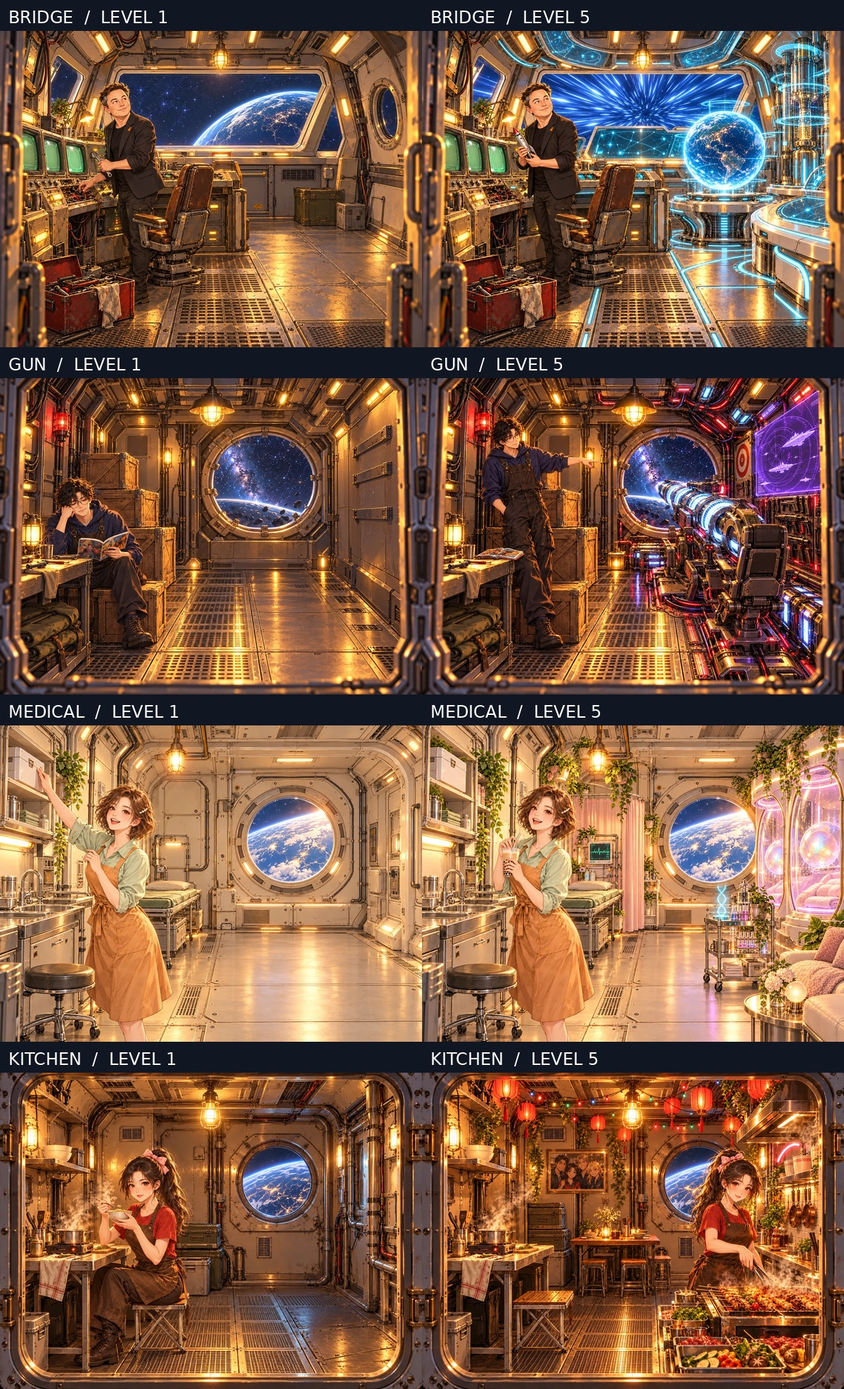
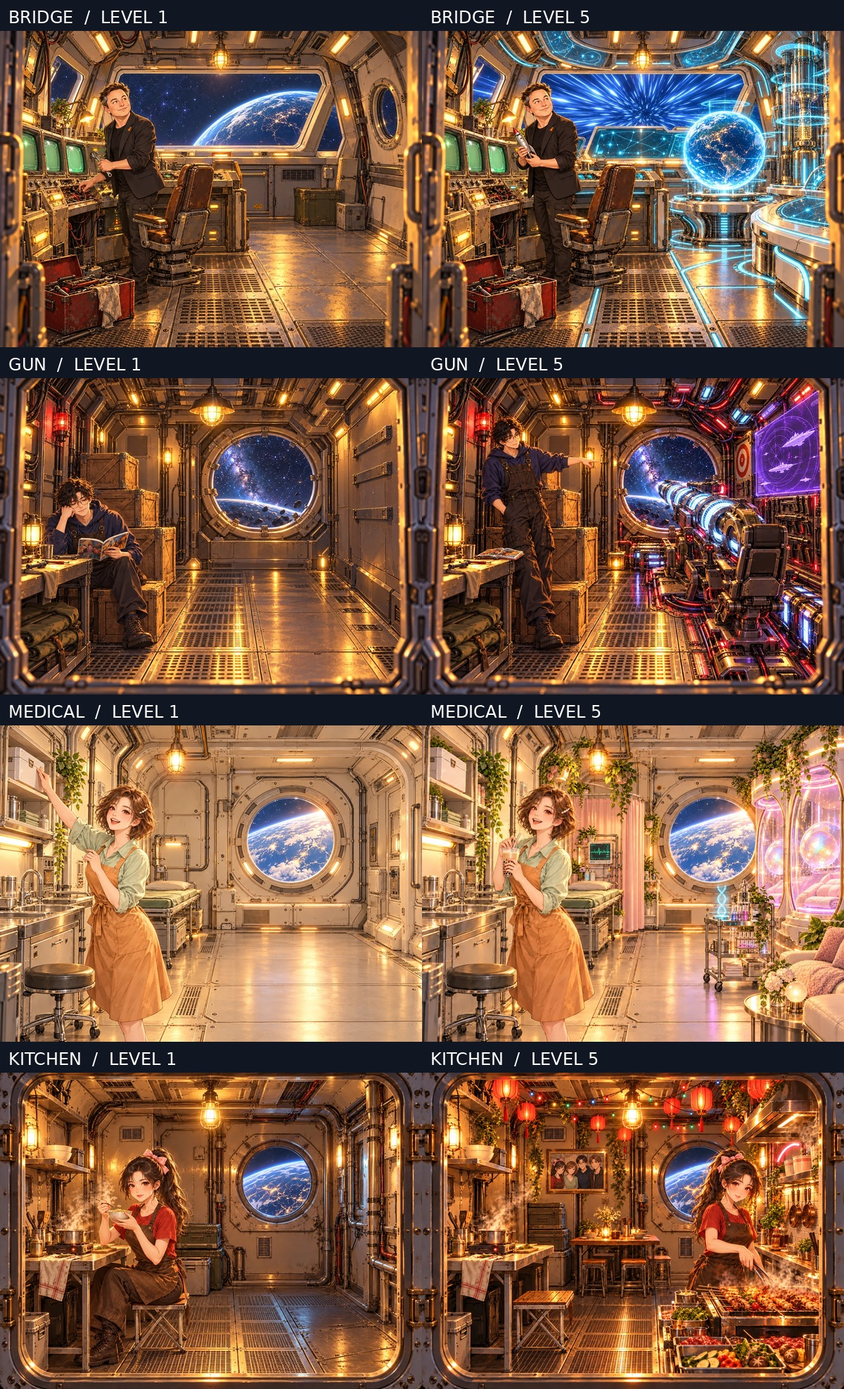
art(xingtu): complete twenty cabin upgrade illustrations and review sheets

diff --git a/art/xingtu-cabins/DELIVERY.md b/art/xingtu-cabins/DELIVERY.md
@@ -1,19 +1,36 @@
-# 星途四舱升级插画候选
+# 星途四舱五级美术候选
 
 分支：`xiongda/xt05-cabin-art`。基线 main：`8735b1ee15a80742ec71324d08de0d503ec28a07`。
+首批四舱 1/5 级提交：`f6e93380274ac3d208b08bfd0c6f9066821a554b`。
 仅交付美术，未接入游戏、未合并 main、未发布。由熊二负责运行时接入。
 
-## 首批
+## 规格与取用
 
-四舱各 1、5 级，共 8 张独立 WebP。统一 1200×900、4:3、RGB、不透明。文件名 `{bridge,gun,medical,kitchen}-{1,5}.webp`。
-`comparison-1-5.jpg` 每行同舱，左一级、右五级；预览上的英文等级标注不在独立插画内。
+20 张独立 WebP，统一 **1200×900、4:3、RGB、不透明**。文件名 `{bridge,gun,medical,kitchen}-{1,2,3,4,5}.webp`。
+`manifest.json` 列出每张图片路径、尺寸、格式、字节数及 SHA-256；`generation-sources.json` 记录实际生成原图来源，原始 PNG 保留在工作环境，非运行时依赖。
 
-依据 `wangdama/xingtu-demo` 的 `design/xingtu/demo.html`：`.real-art` 为 4:3，`REAL_STYLE` 指定 1200×900；船体内 280×104 SVG 是另一种布局。接入请完整展示 4:3，避免为横条裁掉人物和设备。
-风格与人物参考 `art/ceo_{rocket,otaku,pearl,c77}.webp` 和已合入的 `af65e1598090ba78020ce7e3cdcda308d487251d` 剧情卡（尤其 moon_1、station_3）。使用正式 image_gen 工具实际生成，先生成一级，再以同舱一级原图编辑五级，保留机位与核心旧设备。原始 PNG 1448×1086 经 Lanczos 等比缩至 1200×900，WebP quality 94。
+- `comparison-1-5.jpg`：四行，每行同舱，左一级、右五级。
+- `progression-1-5.jpg`：四行五列，从左至右 1–5 级，供相邻升级比较。
+- 两张预览上的英文等级标注不在独立插画内。
 
-- 舰桥：保留旧三屏、驾驶椅和工具箱；新增导航屏、全息地球、计算柱、数据环、曲率控制台。
-- 炮舱：保留木箱、工作台、红灯；新增靶标、武器架、炮座、战术屏、充能组件。
-- 医务室：保留药箱、水槽、诊疗床、凳；新增帘、监护仪、绿植、实验车、珍珠疗愈舱。
-- 厨房：保留电炉、锅、桌、折叠凳；新增灯串、餐桌、锅具墙、烤架和灯笼。
+依据 `wangdama/xingtu-demo`（`a1bc784b76a9abf91cd40f5c452276a4ffde9fe4`）的 `design/xingtu/demo.html`：`.real-art` 为 4:3，`REAL_STYLE` 指定 1200×900；船体内 280×104 SVG 是另一布局。接入请完整展示 4:3，避免为横条裁掉人物和设备。
 
-已逐张目视检查首批角色、机位、实物增量，无可读文字/水印。屏幕仅有装饰线形与图形。已完整解码 8 张并确认 WebP 与尺寸一致；SHA-256、字节数见 manifest.json。尚未完成中间 2–4 级；未做运行时接入或端到端游戏验收。仓库及上级目录未找到 AGENTS.md，也未找到本地专用图像生成 SKILL.md。
+## 美术依据与升级
+
+人物参考 `art/ceo_{rocket,otaku,pearl,c77}.webp`，风格参考已合入的 `af65e1598090ba78020ce7e3cdcda308d487251d` 剧情卡，尤其 moon_1、station_3。保持细致写实叙事插画、暖金灯光与深蓝太空色调，非 Q 版，不依据真人重新设计。
+使用正式 `image_gen.imagegen` 工具实际生成。先生成每舱一级，以一级编辑五级，再以前一级和五级端点作图像参考补齐中间级。每舱维持相同机位、舷窗、舱体骨架与核心旧设备，人物动作随剧情变化；新增设备允许遮挡背景局部，非像素级完全不变。原始 PNG 经 Lanczos 等比缩放至 1200×900，WebP quality 94。预览只做拼接和外置标题，未用程序占位插画。
+
+| 舱室 | 1 级保留基础 | 2 级新增 | 3 级新增 | 4 级新增 | 5 级新增 |
+|---|---|---|---|---|---|
+| bridge / 舰桥 / 火箭老板 | 三块旧绿屏、驾驶椅、工具箱 | 导航星图屏 | 全息地球与底座 | 量子计算柱和数据环 | 曲率控制台、顶部能量导管、曲率窗景 |
+| gun / 炮舱 / 阿宅店长 | 木箱、工作台、红灯、篷布 | 训练靶和武器架 | 炮管、炮座、炮手椅 | 紫色战术屏及控制器 | 充能线圈、供能管线和电池 |
+| medical / 医务室 / 珍珠姐 | 药箱、水槽、诊疗床、凳 | 帘和监护仪 | 绿植、软垫和疗养椅 | 实验车、试管、显微镜、DNA 全息 | 透明珍珠疗愈舱 |
+| kitchen / 厨房 / 77 | 电炉、锅、桌、碗架、折叠凳 | 灯串和泡面架 | 餐桌椅及四人合影 | 锅具墙、瓷砖及炒菜台 | 烧烤架、灯笼、排烟罩及食材 |
+
+## 核验与边界
+
+20 张均完整解码，文件名集合、WebP 格式、1200×900 尺寸、唯一哈希已核对。逐张查看原图及总览，四舱相邻等级均有明确实物增量。修复炮舱四级多余腿部、补回训练靶、厨房三级折叠凳，并统一厨房合影和医务室工具连续性。独立插画无可读标题、等级文字或水印，设备屏幕仅装饰图形/短线。
+
+改动范围仅 `art/xingtu-cabins/` 的插画和交付材料；游戏代码、经济数值、存档、版本、受保护测试指纹均未改。未做运行时接入或正式游戏端到端验收；裁切、加载、缓存、实际页面表现由接入方验证。细部审美仍以用户和接入方最终评审为准。
+
+开始前已查远端无同名分支、无明显重复舱室美术分支，开放 PR 关键词“舱”未命中。仓库与上级目录未找到 AGENTS.md，本地未找到专用图像生成 SKILL.md，按会话授权和工具规范执行。没有切换账号、传递凭证或改动权限。
